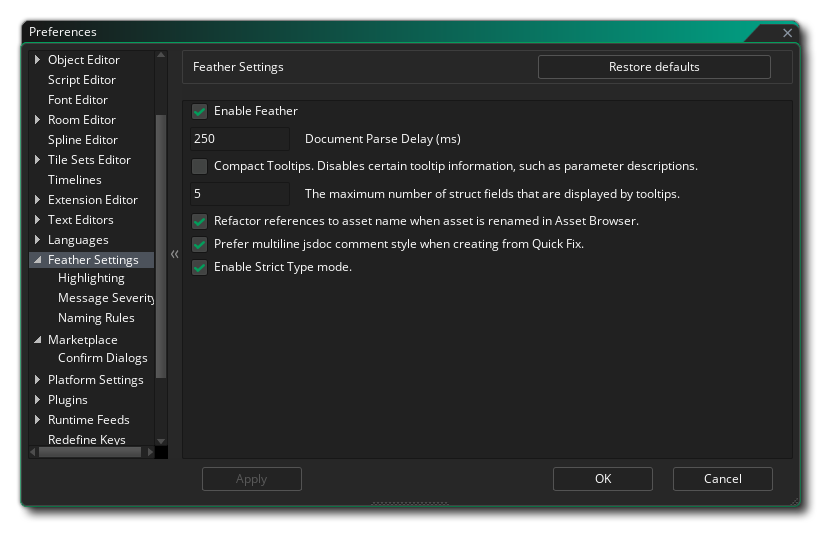
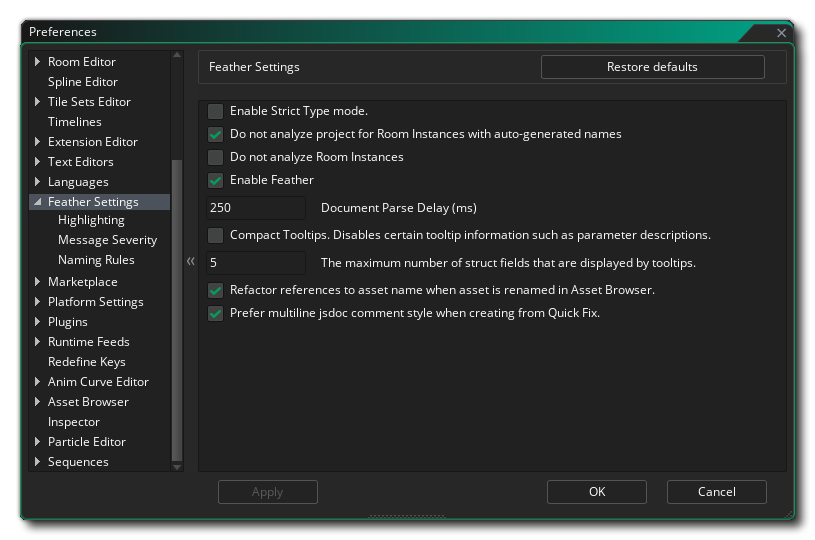
[Feature]Preferences : Missing strings for 2 preferences in Feather Settings YoYoGames/YoYoStudio#8928 * Listed new preferences * Updated screenshot

Changed region(s): [[0.0307, 0.03, 0.9816, 0.8705], [0.0, 0.8705, 1.0, 0.9906], [0.2454, 0.1201, 0.3681, 0.1501]]

diff --git a/Manual/contents/Setting_Up_And_Version_Information/IDE_Preferences/Feather_Settings.htm b/Manual/contents/Setting_Up_And_Version_Information/IDE_Preferences/Feather_Settings.htm
@@ -32,13 +32,15 @@
   <h2 id="s1">Base Options</h2>
   <p><img class="center" src="../../assets/Images/Setup_And_Version/Preferences/Feather/FeatherPrefs_Base.png" />The base Feather Settings contain the following options:</p>
   <ul class="colour">
+    <li><strong>Enable Strict Type mode</strong>: When this is enabled, Feather is stricter about ensuring you use the correct data types in your code.</li>
+    <li><strong>Do not analyze project for Room Instances with auto-generated names</strong>: Enabling this will make Feather not analyse the project for newly added instances. Feather will however analyse your project again when you rename a room instance to a name that&#39;s different from its original auto-generated name.</li>
+    <li><strong>Do not analyze Room Instances</strong>: When this is enabled, Feather will never analyse any Instance Creation Code or reparse the project for new room instances, even when you rename them.</li>
     <li><strong>Enable Feather</strong>: Enable or disable Feather here. When disabled, no Feather features will be available throughout the IDE.</li>
     <li><strong>Document Parse Delay</strong>: The amount of time Feather waits to check your script after you make a change to it.</li>
     <li><strong>Compact Tooltips</strong>: Enabling this will remove certain tooltip information that appears when hovering over keywords, such as parameter descriptions for functions, ultimately making your tooltips smaller.</li>
     <li><strong>The maximum number of struct fields that are displayed by tooltips</strong>: When you hover over a struct reference, a tooltip displays the variables inside that struct, up to the number entered here.</li>
     <li><strong>Refactor references to asset name when asset is renamed in Asset Browser</strong>: Enabling this will ensure that when you rename an asset in your Asset Browser, any mentions of it in your code are also edited so those references don&#39;t break.</li>
     <li><strong>Prefer multiline JSDoc comment style when creating from Quick Fix</strong>: When you generate JSDoc comments for a function through the <a data-xref="{text}" href="../../The_Asset_Editors/Code_Editor_Properties/Feather_Features.htm#h1">Quick Fixes</a> menu, the generated JSDoc will either use single-line or multi-line <a href="../../GameMaker_Language/GML_Overview/Commenting_Code.htm">comments</a>, depending on this option.</li>
-    <li><strong>Enable Strict Type mode</strong>: When this is enabled, Feather is stricter about ensuring you use the correct data types in your code.</li>
   </ul>
   <h2 id="s2">Highlighting</h2>
   <p><img class="center" src="../../assets/Images/Setup_And_Version/Preferences/Feather/FeatherPrefs_Highlighting.png" style="cursor: nesw-resize;" /></p>
